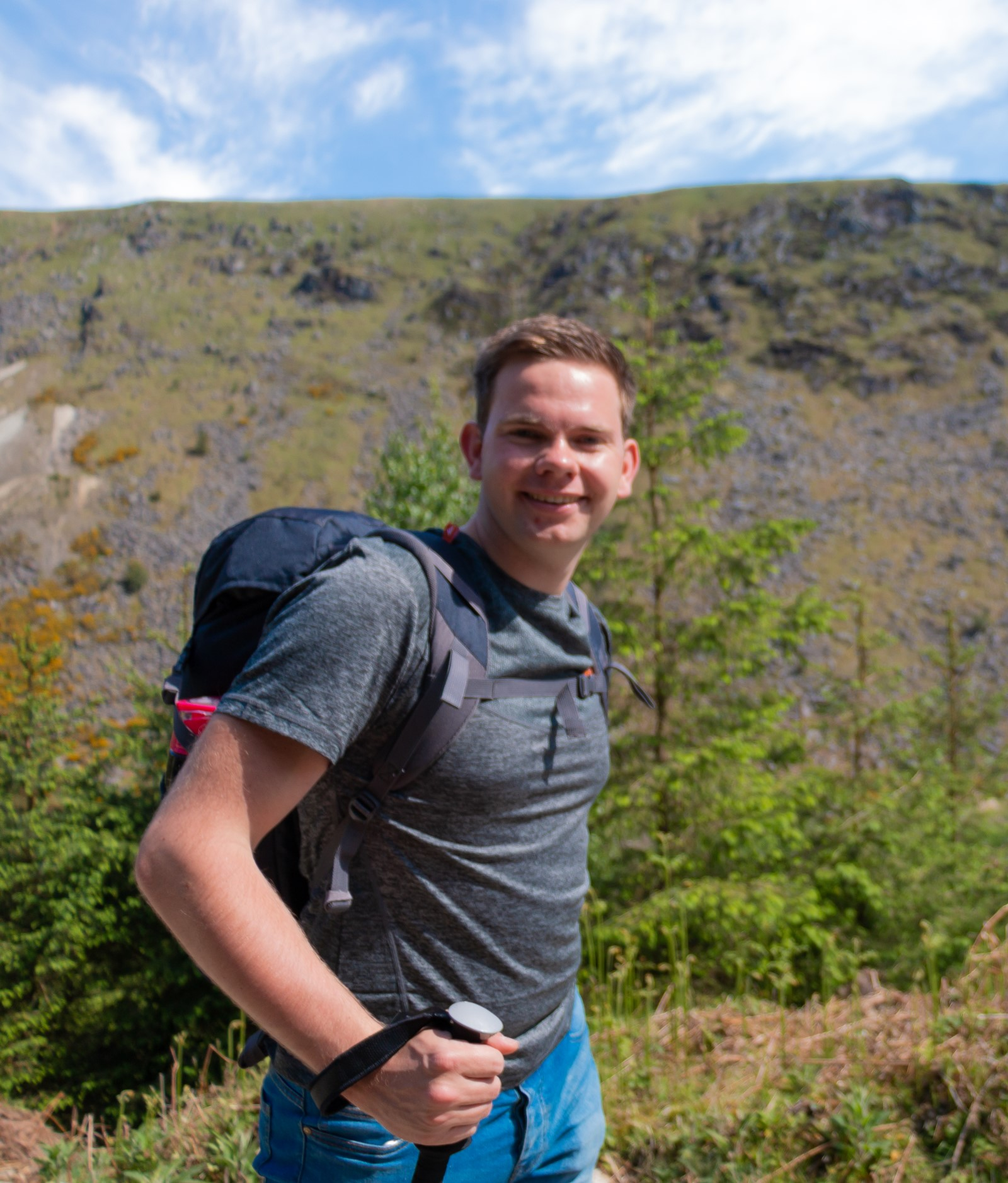
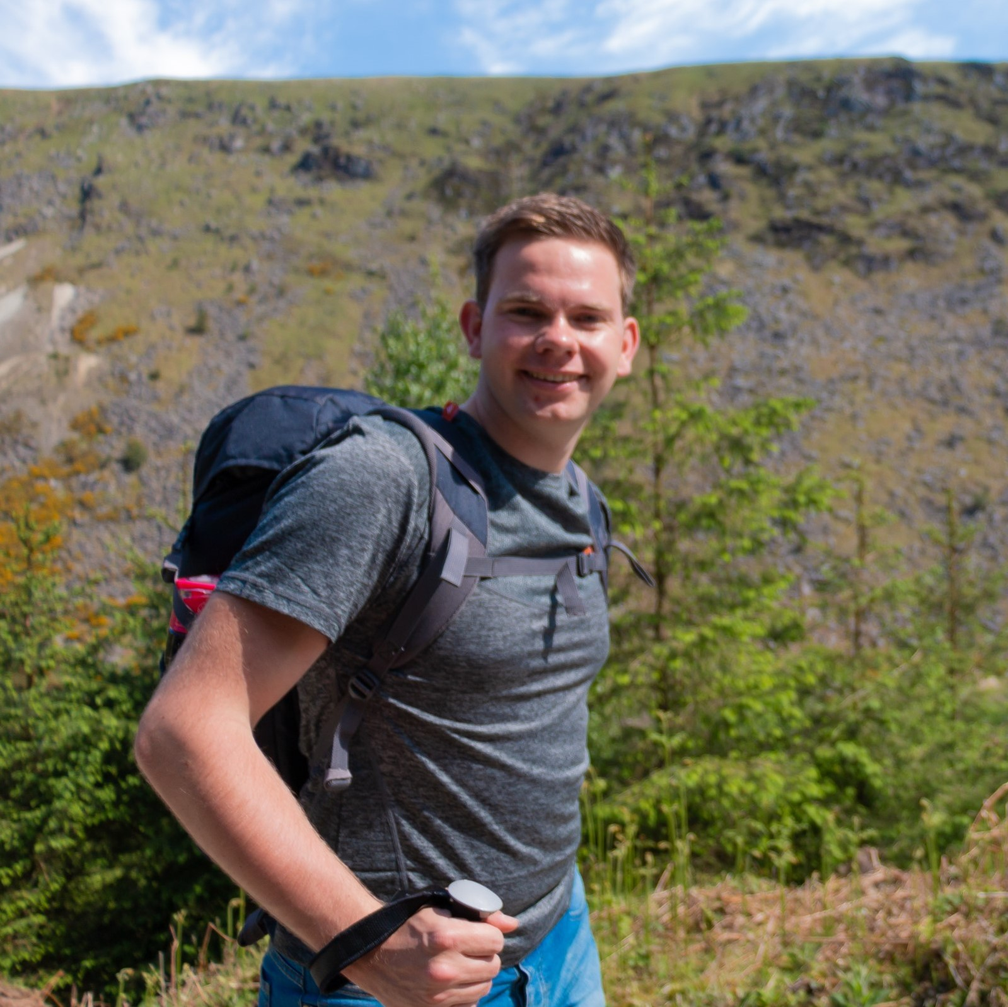
changes to images

diff --git a/index.html b/index.html
@@ -238,7 +238,7 @@
 			<div class="columns is-vcentered">
 				<div class="column">
 					<figure class="image">
-						<img src="images/biography-laurens.jpg" alt="Laurens Verhulst">
+						<img class="bio" src="images/biography-laurens.jpg" alt="Laurens Verhulst">
 					</figure>
 				</div>
 				<div class="column">
@@ -253,7 +253,7 @@
 						</p>
 						<hr></hr>
 						<p class="is-4">I love to be outdoors and hike through the mountains and hills not only in Ireland but also when traveling. I have hiked (together with my girlfriend) to the top of the El Teide on Tenerife,
-							walked the path of the gods in Italy. Another one of my hobbies is cycling, which is almost mandatory as a Dutch person. However,  I have develop it as a hobby here in Ireland. Finally, I love to develop new skills. An example is this portfolio website,
+							walked the path of the gods in Italy, and hope to explore much more. Another one of my hobbies is cycling, which is almost mandatory as a Dutch person. However,  I have develop it as a hobby here in Ireland. Finally, I love to develop new skills. An example is this portfolio website,
 							before this I did not have much experience in HTML, CSS and JavaScript programming.
 						</p>
 						<hr></hr>

diff --git a/styles.css b/styles.css
@@ -178,3 +178,8 @@ a.navbar-item.is-current {
 h1.title.has-text-centered.has-space {
   margin-bottom:35px;
 }
+img.bio {
+  border-radius: 50%;
+  padding: 50px;
+  max-width: 568px;
+}
